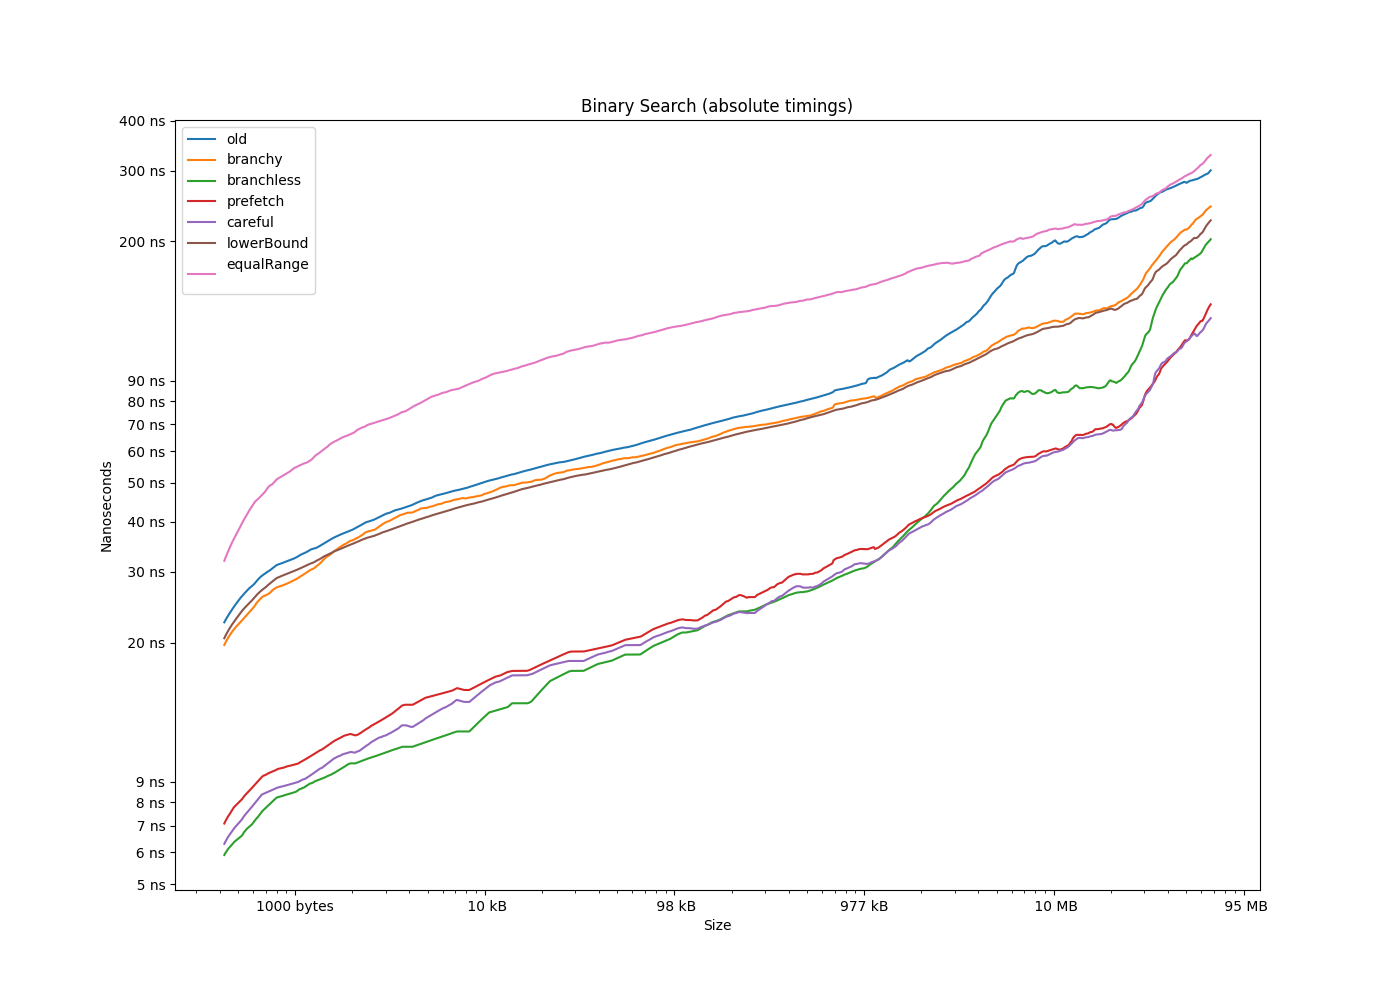
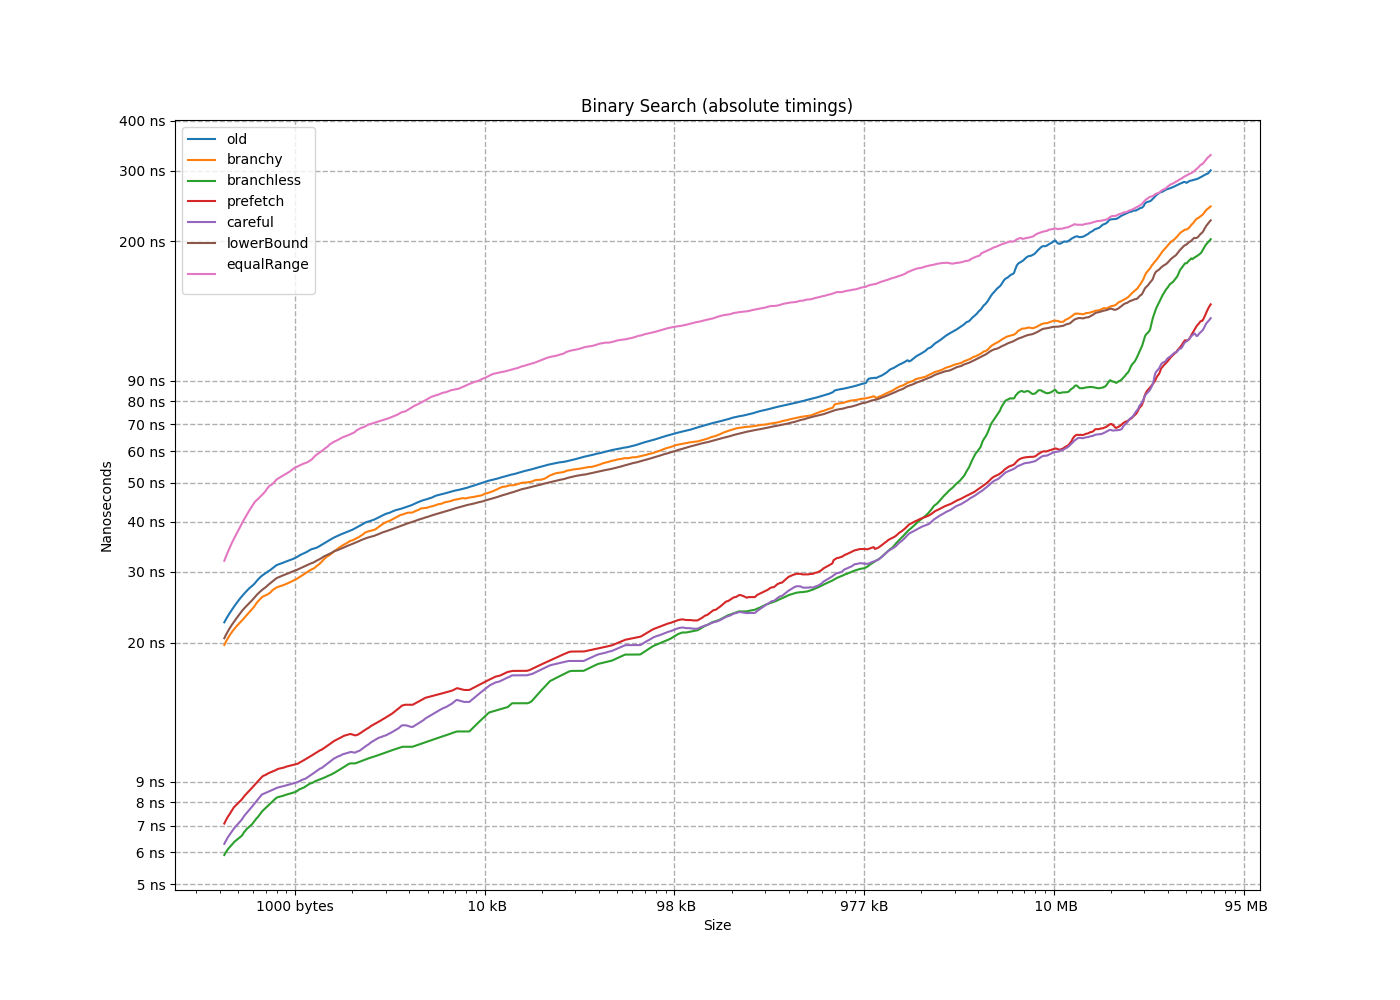
add grid lines

diff --git a/plot.py b/plot.py
@@ -60,7 +60,7 @@ def main(name):
     plt.gca().xaxis.set_major_formatter(tkr.FuncFormatter(sizeof_fmt))    
     plt.gca().yaxis.set_major_locator(tkr.LogLocator(base=10.0, subs='auto', numticks=10))
     plt.gca().yaxis.set_minor_locator(tkr.LogLocator(base=10.0, subs='auto', numticks=100))
-
+    plt.gca().grid(True, which='major', linestyle='--', linewidth=1)
 
     
     plt.xlabel("Size")
